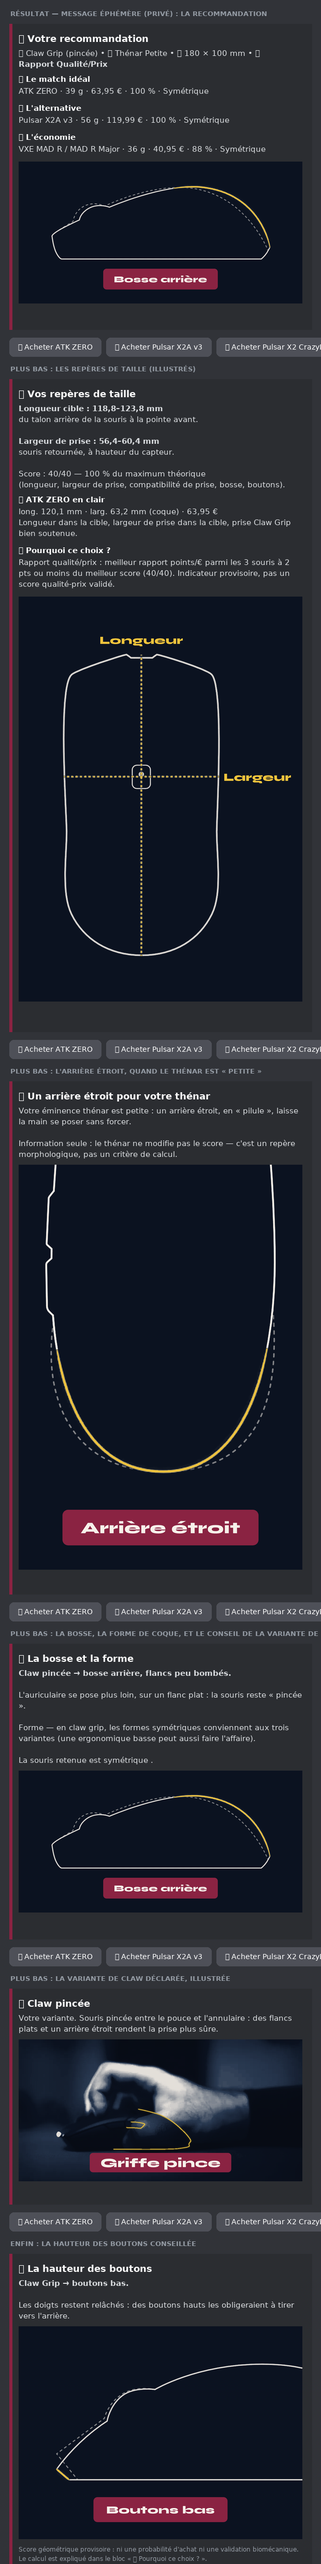
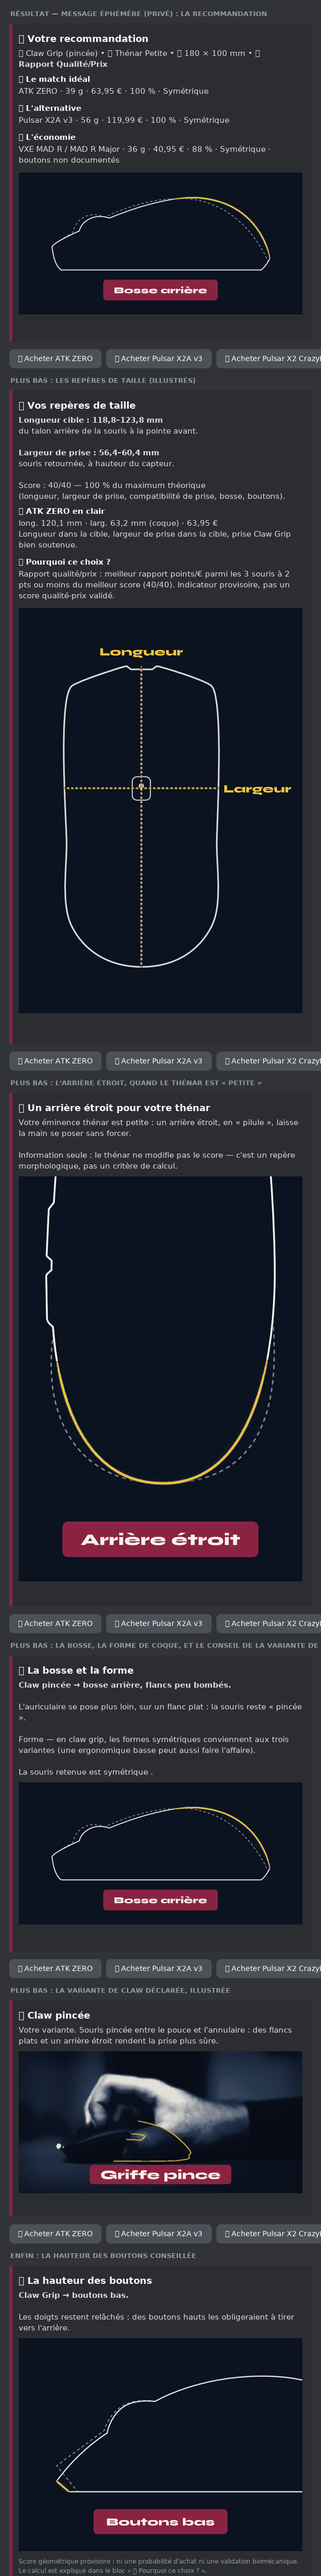
36e passe : score partiel des 2e et 3e places annoncé (marqueur discret, C35)
Décision du propriétaire du 2026-10-13 (question posée après la mesure de la 35e passe) : un marqueur
discret sur la ligne, plutôt qu'une phrase sous les trois lignes.

Une souris dont la hauteur des boutons n'est pas documentée est notée sur les critères disponibles :
son pourcentage est donc calculé SANS ce critère, donc sous-estimé. Le message l'expliquait en clair
seulement quand cette souris était le match idéal (la note longue vit dans le bloc « 📐 Vos repères de
taille ») : en 2e ou 3e place, le pourcentage s'affichait comme un score complet sur 8 187 places
(27 170 profils, 30,1 %), réparties sur 7 304 profils.

- moteur : `PARTIAL_HINT` et le paramètre `partial_hint` de `_slot_text` ; les 2e et 3e places ajoutent
  « · boutons non documentés » À LA FIN de leur ligne (après la forme de coque, pour ne pas casser
  l'alignement « Symétrique / Ergonomique » tout à droite) ; le match idéal garde la note longue.
- effet mesuré (grille complète) : 10 704 lignes portent le marqueur ; la ligne la plus longue du
  catalogue passe de 87 à 102 caractères ; aucun score, aucun classement, aucune sélection ne change.
- banc : `qa_flow_matrix` contrôle désormais qu'une place 2/3 au score partiel le dit (0 problème sur
  les 27 170 profils) ; deux tests dans les deux sens (marqueur présent sur les places basses, absent
  sur le match idéal, note longue présente à la place).
- docs : AUDIT C35 fermé et point ouvert 15 tranché, ROBUSTESSE §24.4/§24.6, master prompt §7.7 et §17,
[…]

diff --git a/cogs/finder_flow.py b/cogs/finder_flow.py
@@ -106,6 +106,10 @@ SCORE_DISCLAIMER = (
 # (« plus bas » était faux, et le bloc « Comment lire ce résultat » n'existe plus depuis le
 # 2026-10-11). Correction autorisée par le propriétaire le 2026-10-13 (point ouvert C27).
 EXPLANATION_REFERENCE = " Le calcul est expliqué dans le bloc « 🧭 Pourquoi ce choix ? »."
+# Marqueur des souris au score partiel (hauteur des boutons non documentée, décision du propriétaire du
+# 2026-10-13) : la note longue n'existe que dans le bloc « 📐 Vos repères de taille », écrit pour le
+# MATCH IDÉAL seul — les 2e et 3e places portent donc ce marqueur discret à la fin de leur ligne.
+PARTIAL_HINT = "boutons non documentés"
 BUTTON_LABEL_MAX = 80
 
 # Affichage : noms français des positions de bosse et des hauteurs de boutons (le catalogue garde
@@ -474,7 +478,7 @@ def _components_text(mouse) -> str:
     return " · ".join(parts)
 
 
-def _slot_text(score: MouseScore, mode: BudgetMode | None = None) -> str:
+def _slot_text(score: MouseScore, mode: BudgetMode | None = None, *, partial_hint: bool = False) -> str:
     """Une souris recommandée : nom · poids · prix · pourcentage · forme, sur une ligne.
 
     Le poids documenté et la forme de coque (« Symétrique » / « Ergonomique », tout à droite) sont
@@ -483,6 +487,12 @@ def _slot_text(score: MouseScore, mode: BudgetMode | None = None) -> str:
     brut, ni badge de confiance, ni commentaire : tout cela vit dans les blocs plus bas. Seul le
     mode « Peu importe le prix » ajoute une seconde ligne, en tout petit : le prix (sans effet sur
     ce classement) et les composants documentés, qui départagent les égalités de forme.
+
+    ``partial_hint`` ajoute « boutons non documentés » à la fin de la ligne (décision du propriétaire,
+    2026-10-13) : la note complète du bloc « 📐 Vos repères de taille » n'est écrite que pour le match
+    idéal, donc une souris au score partiel en 2e ou 3e place affichait son pourcentage — calculé SANS
+    le critère des boutons, donc sous-estimé — sans que rien ne le dise (**8 187 places** sur 27 170
+    profils, mesuré le 2026-10-13). Le marqueur ne touche ni le score ni le classement.
     """
     mouse = score.mouse
     parts = [f"**{mouse.label}**"]
@@ -495,6 +505,8 @@ def _slot_text(score: MouseScore, mode: BudgetMode | None = None) -> str:
     shape = SHAPE_LINE_LABELS.get(mouse.shape)
     if shape:
         parts.append(shape)          # tout à droite : symétrique ou ergonomique
+    if partial_hint and score.is_partial:
+        parts.append(PARTIAL_HINT)   # score calculé sans les boutons : le dire (2026-10-13)
     line = " · ".join(parts)
     if mode is not BudgetMode.PEU_IMPORTE_PRIX:
         return line
@@ -1033,10 +1045,10 @@ def results_embeds(session: FinderSession, selection: Selection) -> list[discord
     if alternative is not None:
         main.add_field(name=alternative_slot_title(alternative, ideal, selection.reference_score,
                                                   mode_tolerance(selection.mode)),
-                       value=_slot_text(alternative, session.budget_mode), inline=False)
+                       value=_slot_text(alternative, session.budget_mode, partial_hint=True), inline=False)
     if economy is not None:
         main.add_field(name=third_slot_title(economy, ideal, alternative, selection.reference_score),
-                       value=_slot_text(economy, session.budget_mode), inline=False)
+                       value=_slot_text(economy, session.budget_mode, partial_hint=True), inline=False)
     image_key = result_image_key(ideal, session.grip)
     if image_key:
         main = _image(main, image_key)

diff --git a/tests/test_flow.py b/tests/test_flow.py
@@ -1332,3 +1332,42 @@ def test_le_pied_de_message_ne_renvoie_plus_a_un_bloc_disparu():
     incomplet = flow.FinderSession(user_id=1)
     incomplet.grip = Grip.PALM
     assert flow.results_embeds(incomplet, selection)[0].footer.text == flow.SCORE_DISCLAIMER
+
+
+def test_une_place_au_score_partiel_l_annonce_sur_sa_ligne():
+    """Score partiel en 2e / 3e place (décision du propriétaire, 2026-10-13) : la ligne le dit.
+
+    Une souris dont la hauteur des boutons n'est pas documentée est notée sur les critères disponibles
+    : son pourcentage est donc calculé SANS ce critère, donc **sous-estimé** (le critère ne peut que
+    rapporter des points, jamais en retirer). La note longue du bloc « 📐 Vos repères de taille » n'est
+    écrite que pour le match idéal : sans le marqueur, les 2e et 3e places affichaient un pourcentage
+    amputé comme s'il était complet (**8 187 places** sur 27 170 profils, mesuré le 2026-10-13).
+    """
+    session, selection, (ideal, alternative, economy) = _trois_places(
+        BudgetMode.ECONOMIQUE, None, Grip.CLAW, 140.0, 60.0)
+    assert ideal is not None and not ideal.is_partial, "le profil de contrôle doit avoir un idéal complet"
+    assert alternative is not None and alternative.is_partial
+    assert economy is not None and economy.is_partial
+    main = flow.results_embeds(session, selection)[0]
+    lignes = {f.name: f.value.split("\n")[0]
+              for f in main.fields if f.name.startswith(("🥇", "🥈", "🔎", "➕", "💸"))}
+    assert len(lignes) == 3
+    assert all(flow.PARTIAL_HINT not in ligne for name, ligne in lignes.items()
+               if name.startswith("🥇")), "le match idéal est expliqué en clair : pas de marqueur"
+    marquees = [ligne for name, ligne in lignes.items() if not name.startswith("🥇")]
+    assert len(marquees) == 2 and all(ligne.endswith(flow.PARTIAL_HINT) for ligne in marquees), marquees
+    # Le marqueur vient APRÈS la forme de coque : la comparaison « Symétrique / Ergonomique » reste
+    # alignée tout à droite (demande du propriétaire du 2026-10-11).
+    assert all(ligne.split(" · ")[-2] in ("Symétrique", "Ergonomique") for ligne in marquees)
+
+
+def test_la_note_du_score_partiel_ne_se_repete_pas_sur_la_ligne_du_match_ideal():
+    """Quand le match idéal est au score partiel, la note longue en tient lieu : pas de marqueur en plus."""
+    session, selection, (ideal, _, _) = _trois_places(None, None, Grip.PALM, 140.0, 60.0)
+    assert ideal is not None and ideal.is_partial
+    embeds = flow.results_embeds(session, selection)
+    main = embeds[0]
+    ligne = next(f.value.split("\n")[0] for f in main.fields if f.name.startswith("🥇"))
+    assert flow.PARTIAL_HINT not in ligne
+    note = "\n".join((embed.description or "") for embed in embeds)
+    assert "Hauteur des boutons non documentée" in note

diff --git a/tools/qa_flow_matrix.py b/tools/qa_flow_matrix.py
@@ -32,6 +32,9 @@ Contrôles effectués, profil par profil :
   dépasse pas la deuxième ;
 - **prix non attesté annoncé** : une souris dont le prix n'est pas `verified` affiche « (prix non
   vérifié) » à côté de son prix (décision du propriétaire, 2026-10-13) ;
+- **score partiel annoncé** : une souris au score partiel (hauteur des boutons non documentée) affichée
+  en 2e ou 3e place porte « boutons non documentés » (décision du propriétaire, 2026-10-13) ; pour le
+  match idéal, la note longue du bloc « 📐 Vos repères de taille » en tient lieu ;
 - comptage, sans le compter comme une faute, des profils où DEUX places montrent la même coque :
   c'est le repli documenté (« jamais moins de résultats qu'avant ») quand la zone de tolérance ne
   contient que des variantes de la coque retenue — il est mesuré, pas supposé ;
@@ -203,6 +206,12 @@ def check_result_message(session, selection, embeds, ideal, alternative, economy
                     break
         if mouse.price_eur is not None and prix_fr(mouse.price_eur) not in texte:
             problems.append(f"prix absent ou faux pour {mouse.label} : attendu {prix_fr(mouse.price_eur)}")
+        # Score partiel (décision du propriétaire, 2026-10-13) : la note longue n'existe que pour le
+        # match idéal, donc les 2e et 3e places portent « boutons non documentés ». Sans ce marqueur,
+        # le pourcentage s'affiche comme un score complet alors qu'il est calculé sans ce critère —
+        # toujours SOUS-ESTIMÉ, jamais gonflé (`PARTIAL_HINT` dans `cogs/finder_flow.py`).
+        if role != "le match idéal" and score.is_partial and "boutons non documentés" not in texte:
+            problems.append(f"{role} au score partiel annoncée sans le dire : {mouse.label}")
         # Prix non attesté : le message doit le dire (décision du propriétaire, 2026-10-13 — le
         # marqueur existait dans le code mais aucun appelant ne l'activait depuis le 2026-10-11).
         if mouse.price_status != "verified" and "prix non vérifié" not in texte:

diff --git a/docs/audit/AUDIT.md b/docs/audit/AUDIT.md
@@ -66,7 +66,7 @@ Gravité : **H** élevée (résultat ou sécurité des données faux/trompeur), 
 | C32 | Catalogue — provenance | L'ATK Y9 Ultimate listait **deux fois la même source** (libellé, URL et date rigoureusement identiques) : la même lecture était comptée pour deux attestations, et tout audit de provenance gonflait d'une unité. | M | **Corrigé le 2026-10-12 (34e passe)** : fusion en une seule source déclarant les deux champs (`claw_grip_fit`, `price_eur`). `tests/test_data.py::test_aucune_source_n_est_enregistree_deux_fois_dans_une_entree` interdit le retour du doublon ; deux lectures d'une même page à des dates ou libellés différents restent deux sources légitimes. |
 | C33 | Catalogue — statut de cotes | Trois entrées annonçaient `dimension_status = "single_source"` (« une seule source, tierce ») alors que leurs propres sources réunissaient déjà les conditions de `"verified"` : la fiche du fabricant atteste les cotes de l'ATK Duckbill (trois sources de cotes), de l'ATK A9 Air et de la VXE X3. Le sens « statut fort sans preuve » était testé ; le sens inverse ne l'était pas. | M | **Corrigé le 2026-10-12 (34e passe)** : `verified` pour les trois (règle écrite du README : « deux sources concordantes, ou la boutique officielle du fabricant »). Aucun score ne change — seul le statut `conflicting` bloque une souris — et la grille complète le prouve : **0 profil sur 27 170** modifié (nouvel outil `tools/db_effect.py`). `tests/test_data.py::test_le_statut_des_cotes_ne_reste_pas_sous_estime` contrôle la règle **dans les deux sens**. |
 | C34 | Message — prix non vérifié | Le marqueur « (prix non vérifié) » prévu par le master prompt (ses exemples de résultat montrent « 74.90 € (prix non vérifié) » et son croquis de code l'ajoute quand `price_status != "verified"`) **n'apparaissait plus dans aucun message** : il ne vivait que derrière un paramètre `verified_hint` qu'aucun appelant n'activait depuis le retrait de l'onglet « Détails » (2026-10-11). Le prix d'une souris non attestée s'affichait donc exactement comme un prix attesté. | M | **Corrigé le 2026-10-13 (35e passe, décision du propriétaire : « remettre le marqueur »)** : les trois places l'affichent, ainsi que la petite ligne de prix du mode « Peu importe le prix ». Effet mesuré : **4 373 places sur 27 170 profils (16,09 %)** portent le marqueur (contre 0 %) ; Scyrox V6 et ATK A9 Plus 2.0 sont les deux souris concernées. La plus longue ligne portant le marqueur mesure 79 caractères (la plus longue ligne de place du catalogue : 87). `test_a_prix_non_verifie_le_message_le_dit` et le banc d'essai le verrouillent. |
-| C35 | Message — score partiel des places 2 et 3 | Une souris dont la **hauteur des boutons n'est pas documentée** est notée sur les critères disponibles (décision du 2026-10-12, `PARTIAL_SCORING_ALLOWED`) : son pourcentage est donc **sous-estimé** (le critère manquant ne peut que rapporter des points, jamais en retirer). Le message l'explique en clair… mais **seulement quand cette souris est le match idéal** (`ideal.is_partial` dans le bloc « 📐 Vos repères de taille »). En 2ᵉ ou 3ᵉ place, le pourcentage s'affiche sans aucune note : **8 187 places sur 27 170 profils (30,1 %)** — 2ᵉ place 3 832, 3ᵉ place 4 355 — réparties sur **7 304 profils** (un profil peut montrer les deux places). Le biais est toujours **défavorable** à la souris concernée (jamais de prix ni de score gonflé) : le membre peut écarter une souris potentiellement meilleure, il n'en achète jamais une survendue. | M | **Signalé le 2026-10-13 (35e passe), non modifié** : la ligne de place est un format verrouillé par le master prompt (« Nom · poids · prix · pourcentage · forme », le plus concis possible) — y ajouter une mention est une décision de texte visible, donc du propriétaire (point 15). |
+| C35 | Message — score partiel des places 2 et 3 | Une souris dont la **hauteur des boutons n'est pas documentée** est notée sur les critères disponibles (décision du 2026-10-12, `PARTIAL_SCORING_ALLOWED`) : son pourcentage est donc **sous-estimé** (le critère manquant ne peut que rapporter des points, jamais en retirer). Le message l'explique en clair… mais **seulement quand cette souris est le match idéal** (`ideal.is_partial` dans le bloc « 📐 Vos repères de taille »). En 2ᵉ ou 3ᵉ place, le pourcentage s'affiche sans aucune note : **8 187 places sur 27 170 profils (30,1 %)** — 2ᵉ place 3 832, 3ᵉ place 4 355 — réparties sur **7 304 profils** (un profil peut montrer les deux places). Le biais est toujours **défavorable** à la souris concernée (jamais de prix ni de score gonflé) : le membre peut écarter une souris potentiellement meilleure, il n'en achète jamais une survendue. | M | **Corrigé le 2026-10-13 (35e passe, décision du propriétaire : marqueur discret)** : les 2e et 3e places ajoutent « · boutons non documentés » à la fin de leur ligne (`PARTIAL_HINT`), après la forme de coque pour ne pas casser l'alignement tout à droite ; le match idéal garde la note longue (pas de doublon). **10 704 lignes** portent le marqueur (dont 8 187 pour un match idéal complet) ; la ligne la plus longue du catalogue passe de 87 à 102 caractères. Aucun score, aucun classement, aucune sélection ne change. `test_une_place_au_score_partiel_l_annonce_sur_sa_ligne` et le banc d'essai le verrouillent (dans les deux sens : pas de marqueur sur le match idéal). |
 
 ## 3. Audit du muscle thénar
 
@@ -154,13 +154,13 @@ Fichiers modifiés ou créés (voir `RAPPORT_FINAL.md` pour la liste complète) 
     **remis** dans la ligne de prix (décision : « remettre le marqueur dans la ligne de prix »), pour les
     trois places et pour la petite ligne de prix du mode « Peu importe le prix ». **16,09 % des profils**
     (4 373 places) l'affichent désormais, contre 0 % auparavant.
-15. **Score partiel en 2ᵉ et 3ᵉ place** : une souris dont la hauteur des boutons n'est pas documentée est
-    notée sur les critères disponibles, ce qui **sous-estime** son pourcentage. Le message l'explique quand
-    cette souris est le match idéal, mais **pas** quand elle occupe la 2ᵉ ou la 3ᵉ place : **8 187 places**
-    sur 27 170 profils (2ᵉ 3 832 · 3ᵉ 4 355). Le biais est toujours défavorable à la souris concernée.
-    **Question au propriétaire** : ajouter la même note pour ces deux places (marqueur discret sur la ligne
-    ou phrase sous les lignes, au choix), ou garder le format actuel — la ligne de place est un format
-    verrouillé par le master prompt, donc la décision lui revient (C35).
+15. ~~**Score partiel en 2ᵉ et 3ᵉ place**~~ **Tranché le 2026-10-13 (35e passe)** : **marqueur discret**
+    sur la ligne — les 2e et 3e places d'une souris au score partiel affichent « · boutons non documentés »
+    (`PARTIAL_HINT`), le match idéal gardant la note longue du bloc « 📐 Vos repères de taille ». Avant :
+    **8 187 places** sur 27 170 profils (2ᵉ 3 832 · 3ᵉ 4 355, réparties sur 7 304 profils) où le pourcentage
+    s'affichait comme un score complet alors qu'il était calculé sans le critère des boutons (donc
+    sous-estimé) ; **10 704 lignes** portent désormais le marqueur. Détail : §24.4 de
+    `ROBUSTESSE_2026-10-12.md`.
 
 ## 9. Vérifications Discord
 

diff --git a/docs/audit/ROBUSTESSE_2026-10-12.md b/docs/audit/ROBUSTESSE_2026-10-12.md
@@ -1979,7 +1979,31 @@ d'explication), le pied de page reste le simple avertissement de score. La phras
 direction (« plus bas » était faux : le pied de page est posé sur le dernier bloc, l'explication est
 au-dessus).
 
-### 24.4 Ce que la passe a aussi vérifié
+### 24.4 Le score partiel des 2e et 3e places est annoncé (décision : « marqueur discret »)
+
+Une souris dont la **hauteur des boutons n'est pas documentée** est notée sur les critères disponibles
+(`PARTIAL_SCORING_ALLOWED`, décision du 2026-10-12) : son pourcentage est donc calculé **sans** ce
+critère, donc **sous-estimé** — le critère manquant ne peut que rapporter des points, jamais en retirer.
+Le message l'explique en clair, mais **seulement quand cette souris est le match idéal** : la note vit
+dans le bloc « 📐 Vos repères de taille », écrit pour `ideal.is_partial`.
+
+En 2e ou 3e place, le pourcentage s'affichait donc comme un score complet : **8 187 places** sur 27 170
+profils (30,1 %), réparties sur **7 304 profils** — mesuré le 2026-10-13 (35e passe), signalé au
+propriétaire (C35) et **tranché le jour même** : un **marqueur discret** à la fin de la ligne, plutôt
+qu'une phrase sous les trois lignes.
+
+**La règle appliquée** (`PARTIAL_HINT` dans `cogs/finder_flow.py`) : les 2e et 3e places ajoutent
+« · boutons non documentés » **à la fin** de leur ligne — après la forme de coque, pour ne pas casser
+l'alignement « Symétrique / Ergonomique » tout à droite. Le match idéal garde la note longue (pas de
+doublon). Aucun score, aucun classement, aucune sélection ne change : c'est un texte.
+
+**Effet mesuré** : **10 704 lignes** de place portent le marqueur sur la grille complète (8 187 pour un
+match idéal complet, 2 517 en plus là où le match idéal est lui-même partiel). La ligne la plus longue
+du catalogue passe de 87 à **102 caractères** (« **Pulsar Xlite CrazyLight Medium** · 44 g · 149,90 € ·
+**38 %** · Ergonomique · boutons non documentés ») : le marqueur allonge la ligne, c'est le prix assumé
+de l'option choisie, et le banc d'essai continue de contrôler les limites Discord (0 problème).
+
+### 24.5 Ce que la passe a aussi vérifié
 
 - **Les cinq profils de référence** du README et du guide de déploiement sont inchangés, mais leur ordre est
   désormais cohérent : Palm 180 × 90 Qualité/Prix → Phantom 88 % · Z1 V2 75 % · A9 Mini 75 % ;
@@ -1994,13 +2018,13 @@ au-dessus).
 - **Rapports régénérés** : `docs/audit/STATISTIQUES_RECOMMANDATIONS_2026-10-12.md`,
   `docs/audit/matrice_profils.md` et les trois aperçus PNG (`docs/apercu_*.png`, dont le résultat).
 
-### 24.5 Preuves d'exécution (35e passe)
+### 24.6 Preuves d'exécution (35e passe)
 
 | Contrôle | Résultat |
 |---|---|
-| `pytest -q` | **407 passed** (403 avant la passe : 4 tests ajoutés — ordre garanti, match idéal intact, marqueur de prix, pied de message) |
+| `pytest -q` | **409 passed** (403 avant la passe : 6 tests ajoutés — ordre garanti, match idéal intact, marqueur de prix, pied de message, marqueur de score partiel dans les deux sens) |
 | `pyflakes` (bot, config, cogs, utils, tests, tools) | 0 avertissement |
-| `tools/qa_flow_matrix.py` (27 170 profils) | **0 problème** · 3 places 23 231 (85,50 %) · 2 places 1 196 · 1 place 182 · 0 place 2 561 · repli « même coque » 645 · match idéal partiel 3 118 · **ordre non garanti 84 (0,31 %)** |
+| `tools/qa_flow_matrix.py` (27 170 profils) | **0 problème** (contrôle du marqueur de score partiel ajouté) · 3 places 23 231 (85,50 %) · 2 places 1 196 · 1 place 182 · 0 place 2 561 · repli « même coque » 645 · match idéal partiel 3 118 · **ordre non garanti 84 (0,31 %)** |
 | `tools/flow_effect.py --avant 41d741d` (24 609 profils) | match idéal **0 profil changé** · alternative 1 615 · troisième place 1 976 · **ordre violé 2 046 → 84** · places remplies identiques |
 | `tools/privacy_scan.py` | 0 violation |
 | `tools/check_deployment.py` | 1 erreur, **attendue** : `.env` absent de cet atelier (le serveur l'a) |

diff --git a/docs/DEPLOYMENT_ALWAYSDATA_FILEZILLA.md b/docs/DEPLOYMENT_ALWAYSDATA_FILEZILLA.md
@@ -1704,14 +1704,19 @@ changements **visibles**, donc à déployer ensemble :
 3. **Le pied de message ne renvoie plus à un bloc disparu** : « Comment lire ce résultat » (bloc supprimé le
    2026-10-11) devient **« 🧭 Pourquoi ce choix ? »**, et le renvoi n'apparaît que si ce bloc est bien dans le
    message.
+4. **Une souris notée sans le critère des boutons (hauteur non documentée) l'annonce en 2e et 3e place** :
+   « · boutons non documentés » à la fin de la ligne. Son pourcentage était calculé sans ce critère (donc
+   sous-estimé) sans que rien ne le dise — **8 187 places** sur 27 170 profils (30,1 %). Le match idéal, lui,
+   garde la note longue du bloc « 📐 Vos repères de taille » (pas de doublon).
 
 **1. Fichiers à glisser dans `~/MouseDiscord`** (conflits : **Écraser**, jamais « Synchroniser »)
 
 ```
-cogs/finder_flow.py                  (DÉCISIF : ordre des pourcentages, marqueur de prix, pied de message)
+cogs/finder_flow.py                  (DÉCISIF : ordre des pourcentages, marqueur de prix, pied de message,
+                                      marqueur de score partiel)
 tools/qa_flow_matrix.py              (facultatif : contrôle du marqueur et de l'ordre)
 tools/flow_effect.py                 (facultatif : compare un changement de moteur avant/après)
-tests/test_flow.py                   (facultatif : 4 tests nouveaux sur les trois décisions)
+tests/test_flow.py                   (facultatif : 6 tests nouveaux sur les quatre décisions)
 README.md                            (facultatif : ordre garanti et prix signalés décrits)
 docs/audit/ROBUSTESSE_2026-10-12.md  (facultatif : §24, l'audit complet de la passe)
 docs/audit/AUDIT.md                  (facultatif : C27 et C34 fermés, points ouverts 13 et 14 tranchés)
@@ -1730,7 +1735,7 @@ cette mise à jour ne touche ni les prix, ni les liens, ni les cotes.
 
 ```bash
 cd ~/MouseDiscord
-.venv/bin/python -m pytest -q                      # attendu : 407 passed
+.venv/bin/python -m pytest -q                      # attendu : 409 passed
 .venv/bin/python tools/check_deployment.py         # attendu : 36 souris, 36 liens, 1 erreur (.env du serveur)
 .venv/bin/python tools/qa_flow_matrix.py | tail -1 # attendu : Problèmes détectés : 0
 ```
@@ -1747,10 +1752,13 @@ sinon `pkill -f "bot.py"`.
    **« 45,00 € (prix non vérifié) »** — le marqueur revient.
 3. En bas du message privé, le pied de page dit **« … expliqué dans le bloc « 🧭 Pourquoi ce choix ? » »**,
    et non plus « Comment lire ce résultat ».
+4. Parcours **Palm**, main **180 × 90**, **Économique** : la 2e et la 3e ligne (ATK A9 Mini, ATK GHOST
+   Ultimate) se terminent par **« · boutons non documentés »** — leur pourcentage est calculé sans ce
+   critère, et la ligne le dit maintenant.
 
 **Retour arrière** : remettre l'ancien `cogs/finder_flow.py` par FileZilla, puis `pkill -f "bot.py"`. Le
-retour arrière remet l'ancienne sélection des 2e et 3e places et masque de nouveau le marqueur de prix —
-les prix, les liens et les cotes ne sont pas concernés.
+retour arrière remet l'ancienne sélection des 2e et 3e places, masque de nouveau le marqueur de prix et le
+marqueur de score partiel — les prix, les liens et les cotes ne sont pas concernés.
 
 ---
 

diff --git a/docs/MASTER_PROMPT_AZEMOUSE.md b/docs/MASTER_PROMPT_AZEMOUSE.md
@@ -368,6 +368,11 @@ largeur de prise est donc **estimée** (coque − 3 mm) pour les 36. Ne pas inve
   prix du mode « Peu importe le prix » (seul endroit où le prix apparaît dans ce mode). Deux souris sont
   concernées : Scyrox V6 et ATK A9 Plus 2.0. Ne jamais présenter un prix du cahier des charges comme un
   prix vérifié.
+- **Score partiel annoncé** : une souris dont la hauteur des boutons n'est pas documentée est notée sans ce
+  critère (`PARTIAL_SCORING_ALLOWED`), donc son pourcentage est **sous-estimé**. Le match idéal l'explique
+  en clair dans le bloc « 📐 Vos repères de taille » ; les 2e et 3e places portent le marqueur discret
+  « · boutons non documentés » à la fin de leur ligne (`PARTIAL_HINT`), après la forme de coque pour ne pas
+  casser l'alignement tout à droite. Jamais de doublon des deux sur la même place.
 
 ### 7.5 Cas de non-régression (à garder en tests)
 
@@ -855,6 +860,10 @@ Aucun autre fichier ne lit `thenar` pour calculer.
 - **Pied de message** : ~~renvoi mort vers « Comment lire ce résultat »~~ **corrigé le 2026-10-13**, avec
   l'autorisation du propriétaire : le renvoi pointe vers « 🧭 Pourquoi ce choix ? », et seulement quand ce
   bloc est affiché (C27 de `docs/audit/AUDIT.md`).
+- **Score partiel des 2e et 3e places** : ~~pourcentage calculé sans le critère des boutons, sans que rien
+  ne le dise~~ **tranché le 2026-10-13 (35e passe)** — marqueur discret « · boutons non documentés » à la
+  fin de la ligne (`PARTIAL_HINT`). Il l'annonçait sur **8 187 places** (30,1 %) sans le dire : le biais
+  était toujours défavorable à la souris, jamais au membre (aucune souris survendue).
 - **Thème Discord clair** : tester la lisibilité (embed bordeaux sur fond clair reste OK, mais vérifier).
 
 ---

diff --git a/README.md b/README.md
@@ -65,7 +65,7 @@ et ne font pas avancer le flux. Les réponses sont visibles uniquement par l'uti
 - toute erreur inattendue est tracée et expliquée en privé au membre — jamais un silence.
 
 **Premier écran** : la ligne du parcours, puis les souris utiles — nom, prix et **pourcentage du maximum
-théorique** pour le match idéal, l'alternative et la troisième place (remplies dès que le budget le permet : « 💸 économie » si elle en est une, « ➕ autre option » sinon, « 🔎 autre piste » quand la souris vient du dernier palier ; les pourcentages **ne remontent jamais** d'une ligne à l'autre, et une souris dont le prix n'est pas attesté l'annonce : « 74,90 € (prix non vérifié) »). Ni score /40, ni souris
+théorique** pour le match idéal, l'alternative et la troisième place (remplies dès que le budget le permet : « 💸 économie » si elle en est une, « ➕ autre option » sinon, « 🔎 autre piste » quand la souris vient du dernier palier ; les pourcentages **ne remontent jamais** d'une ligne à l'autre, une souris dont le prix n'est pas attesté l'annonce : « 74,90 € (prix non vérifié) », et une souris dont la hauteur des boutons n'est pas documentée — donc notée sans ce critère — porte « · boutons non documentés » quand elle occupe une 2e ou 3e place). Ni score /40, ni souris
 écartées à ce niveau : le détail vient **plus bas dans le même message privé**, en petits blocs illustrés,
 dans l'ordre de l'outil de référence (Oblivity) :
 

diff --git a/docs/REPORTE_DESIGN.md b/docs/REPORTE_DESIGN.md
@@ -211,7 +211,8 @@ Le message privé ne montre plus ni score, ni badge de confiance, ni repères de
   seule ligne « **Nom** · poids · prix · pourcentage du maximum théorique · forme de coque ». Rien d'autre : ni score /40, ni confiance,
   et **les pourcentages sont ordonnés du haut vers le bas** (décision du propriétaire, 2026-10-13 : une place n'affiche jamais un
   pourcentage supérieur à la place du dessus ; la contrainte porte sur le choix de la souris, jamais sur le score). Une souris dont
-  le prix n'est pas attesté l'annonce à côté du montant : « 74,90 € (prix non vérifié) »,
+  le prix n'est pas attesté l'annonce à côté du montant : « 74,90 € (prix non vérifié) », et une souris notée sans le critère des
+  boutons (hauteur non documentée) porte « · boutons non documentés » en 2e et 3e place, son pourcentage étant sous-estimé,
   ni détail de géométrie, et aucune liste de souris écartées. Image : la bosse de la souris retenue (ou ses boutons).
   **Exception (mode « Peu importe le prix », 2026-10-11)** : la ligne garde « Nom · pourcentage » et le prix descend en
   tout petit, suivi des composants documentés (capteur, fréquence, poids) — le prix ne concurrence plus la forme ;
